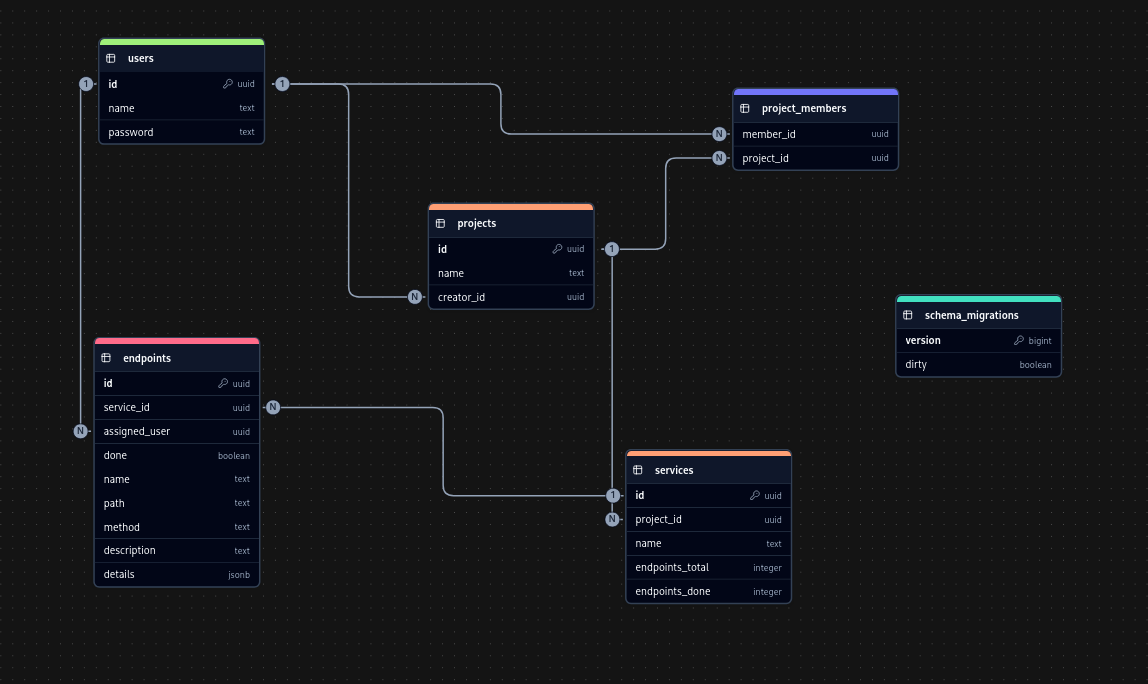
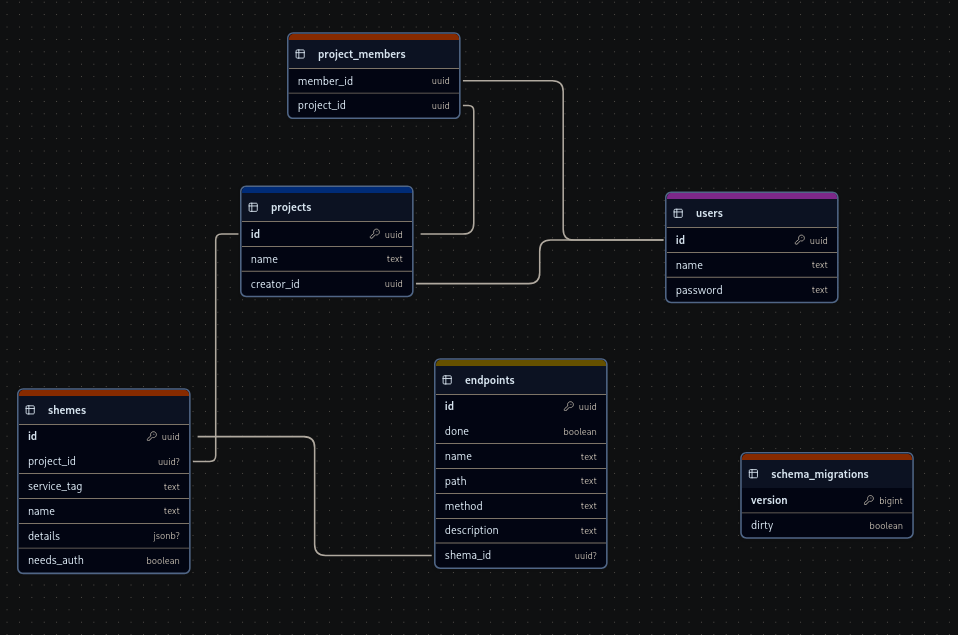
Backend: db migrations updated

diff --git a/backend/internal/infrastructure/database/sqlc/storage/models.go b/backend/internal/infrastructure/database/sqlc/storage/models.go
@@ -6,18 +6,17 @@ package storage
 
 import (
 	"github.com/google/uuid"
+	"github.com/jackc/pgx/v5/pgtype"
 )
 
 type Endpoint struct {
-	ID           uuid.UUID
-	ServiceID    uuid.UUID
-	AssignedUser uuid.UUID
-	Done         bool
-	Name         string
-	Path         string
-	Method       string
-	Description  string
-	Details      []byte
+	ID          uuid.UUID
+	Done        bool
+	Name        string
+	Path        string
+	Method      string
+	Description string
+	ShemaID     pgtype.UUID
 }
 
 type Project struct {
@@ -31,12 +30,13 @@ type ProjectMember struct {
 	ProjectID uuid.UUID
 }
 
-type Service struct {
-	ID             uuid.UUID
-	ProjectID      uuid.UUID
-	Name           string
-	EndpointsTotal int32
-	EndpointsDone  int32
+type Sheme struct {
+	ID         uuid.UUID
+	ProjectID  pgtype.UUID
+	ServiceTag string
+	NeedsAuth  bool
+	Name       string
+	Details    []byte
 }
 
 type User struct {

diff --git a/backend/internal/infrastructure/database/sqlc/storage/endpoint.sql.go b/backend/internal/infrastructure/database/sqlc/storage/endpoint.sql.go
@@ -1,0 +1,19 @@
+// Code generated by sqlc. DO NOT EDIT.
+// versions:
+//   sqlc v1.28.0
+// source: endpoint.sql
+
+package storage
+
+import (
+	"context"
+)
+
+const exampleEndpoint = `-- name: ExampleEndpoint :exec
+select (1) from endpoints
+`
+
+func (q *Queries) ExampleEndpoint(ctx context.Context) error {
+	_, err := q.db.Exec(ctx, exampleEndpoint)
+	return err
+}

diff --git a/backend/internal/infrastructure/database/sqlc/storage/project.sql.go b/backend/internal/infrastructure/database/sqlc/storage/project.sql.go
@@ -1,0 +1,19 @@
+// Code generated by sqlc. DO NOT EDIT.
+// versions:
+//   sqlc v1.28.0
+// source: project.sql
+
+package storage
+
+import (
+	"context"
+)
+
+const exampleProject = `-- name: ExampleProject :exec
+select (1) from projects
+`
+
+func (q *Queries) ExampleProject(ctx context.Context) error {
+	_, err := q.db.Exec(ctx, exampleProject)
+	return err
+}

diff --git a/backend/internal/infrastructure/database/sqlc/storage/user.sql.go b/backend/internal/infrastructure/database/sqlc/storage/user.sql.go
@@ -1,0 +1,19 @@
+// Code generated by sqlc. DO NOT EDIT.
+// versions:
+//   sqlc v1.28.0
+// source: user.sql
+
+package storage
+
+import (
+	"context"
+)
+
+const exampleUser = `-- name: ExampleUser :exec
+select (1) from users
+`
+
+func (q *Queries) ExampleUser(ctx context.Context) error {
+	_, err := q.db.Exec(ctx, exampleUser)
+	return err
+}
